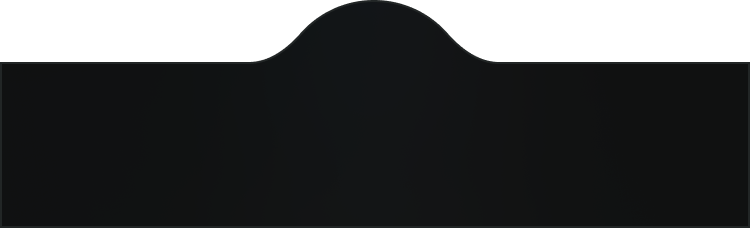
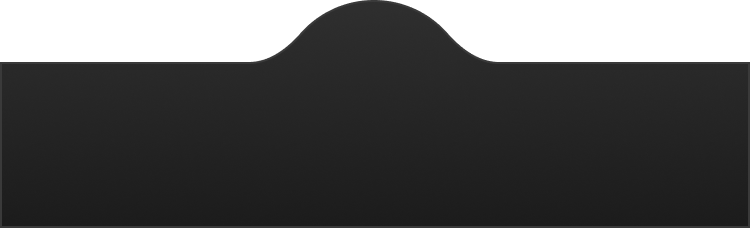
暗夜绿

Changed region(s): [[0.0, 0.0, 0.6133, 0.3684], [0.7053, 0.2763, 1.0, 0.3684]]

diff --git a/src/components/BottomTabBar.vue b/src/components/BottomTabBar.vue
@@ -1,27 +1,75 @@
 <!-- 底部导航 -->
 <template>
-  <div class="max-width bottom_nav">
-    <div v-for="(item, i) in navs" :key="i" class="bottom_nav_item"
-      :class="[checkActive(item) ? 'bottom_nav_active' : '']" @touchstart="handleClick(item, $event)"
-      @click="handleClick(item)">
-      <div class="bottom_nav_icon">
-        <img v-if="!checkActive(item)" :src="getStaticImgUrl(item.icon)" alt="">
-        <img v-if="checkActive(item)" :src="getStaticImgUrl(item.icon2)" alt="">
+  <div class="max-width bottom_nav2"
+    :style="{ backgroundImage: `url(${getStaticImgUrl('/static/bottombar2/bg.png')})` }">
+    <div class="nav_box">
+      <div class="bottom_nav_item" @touchstart="handleClick(navs[0], $event)" @click="handleClick(navs[0])"
+        :class="[checkActive(navs[0]) ? 'bottom_nav_active' : '']">
+        <div class="bn_con">
+          <div class="bottom_nav_icon">
+            <img v-if="!checkActive(navs[0])" :src="getStaticImgUrl(navs[0].icon)" alt="">
+            <img v-if="checkActive(navs[0])" :src="getStaticImgUrl(navs[0].icon2)" alt="">
+          </div>
+          <div class="bottom_nav_name">
+            {{ navs[0].name }}
+          </div>
+        </div>
       </div>
+      <div class="bottom_nav_item" @touchstart="handleClick(navs[1], $event)" @click="handleClick(navs[1])"
+        style="align-items: flex-end;" :class="[checkActive(navs[1]) ? 'bottom_nav_active' : '']">
+        <div class="bn_con">
+          <div class="bottom_nav_icon">
+            <img v-if="!checkActive(navs[1])" :src="getStaticImgUrl(navs[1].icon)" alt="">
+            <img v-if="checkActive(navs[1])" :src="getStaticImgUrl(navs[1].icon2)" alt="">
+          </div>
+          <div class="bottom_nav_name">
+            {{ navs[1].name }}
+          </div>
 
-      <div class="bottom_nav_name">
-        {{ item.name }}
-      </div>
-
-      <!-- c2c角标 -->
-      <div v-if="item.route == 'market' && store.state.c2cUnreadTotal > 0" class="bg-unread-msg bg-unread-msg-text-color">
-        {{ store.state.c2cUnreadTotal }}
-      </div>
-      <!-- 角标 -->
-      <div v-if="item.route == 'user' && storeChat.state.messageNum > 0" class="bg-unread-msg bg-unread-msg-text-color">
-        {{ storeChat.state.messageNum }}
+          <div v-if="store.state.c2cUnreadTotal > 0" class="nav_num">
+            {{ store.state.c2cUnreadTotal }}
+          </div>
+        </div>
       </div>
     </div>
+    <div class="nav_curr">
+      <div class="curr" @touchstart="handleClick(navs[2], $event)" @click="handleClick(navs[2])">
+        <div class="curr_icon">
+          <img :src="getStaticImgUrl('/static/bottombar2/curr.svg')" alt="">
+        </div>
+      </div>
+    </div>
+    <div class="nav_box">
+      <div class="bottom_nav_item" @touchstart="handleClick(navs[3], $event)" @click="handleClick(navs[3])"
+        style="align-items: flex-start;" :class="[checkActive(navs[3]) ? 'bottom_nav_active' : '']">
+        <div class="bn_con">
+          <div class="bottom_nav_icon">
+            <img v-if="!checkActive(navs[3])" :src="getStaticImgUrl(navs[3].icon)" alt="">
+            <img v-if="checkActive(navs[3])" :src="getStaticImgUrl(navs[3].icon2)" alt="">
+          </div>
+          <div class="bottom_nav_name">
+            {{ navs[3].name }}
+          </div>
+        </div>
+      </div>
+      <div class="bottom_nav_item" @touchstart="handleClick(navs[4], $event)" @click="handleClick(navs[4])"
+        :class="[checkActive(navs[4]) ? 'bottom_nav_active' : '']">
+        <div class="bn_con">
+          <div class="bottom_nav_icon">
+            <img v-if="!checkActive(navs[4])" :src="getStaticImgUrl(navs[4].icon)" alt="">
+            <img v-if="checkActive(navs[4])" :src="getStaticImgUrl(navs[4].icon2)" alt="">
+          </div>
+          <div class="bottom_nav_name">
+            {{ navs[4].name }}
+          </div>
+
+          <div v-if="storeChat.state.messageNum > 0" class="nav_num">
+            {{ storeChat.state.messageNum }}
+          </div>
+        </div>
+      </div>
+    </div>
+
   </div>
 </template>
 
@@ -119,60 +167,102 @@ const checkActive = (item) => {
 </script>
 
 <style scoped lang="less">
-.bottom_nav {
-  border-top: 1px solid var(--ex-border-color);
-  background-color: var(--ex-bg-color);
+.bottom_nav2 {
+  background-size: 100% 100%;
   display: flex;
   position: fixed;
   overflow: hidden;
   bottom: 0;
   left: 0;
   width: 100%;
-  height: 1.4rem;
+  height: 2rem;
   left: 50%;
   transform: translateX(-50%);
   z-index: 999;
 
-  .bottom_nav_item {
-    flex: 1;
+  .nav_curr {
+    width: 2.4rem;
     height: 100%;
     display: flex;
     flex-direction: column;
     align-items: center;
-    justify-content: center;
-    color: var(--ex-text-color2);
-    position: relative;
+    justify-content: flex-start;
+    padding-top: 0.16rem;
 
-    .bottom_nav_name {
-      font-size: 0.24rem;
-      line-height: 0.32rem;
-      margin-top: 0.1rem;
-    }
-
-    .bottom_nav_icon {
-      width: 0.48rem;
-      height: 0.48rem;
-      font-size: 0.48rem;
-      object-fit: contain;
-    }
-
-    .nav_num {
-      width: 0.32rem;
-      height: 0.32rem;
+    .curr {
+      width: 1.2rem;
+      height: 1.2rem;
+      border-radius: 50%;
+      background-size: 100% 100%;
       display: flex;
       align-items: center;
       justify-content: center;
-      font-size: 0.2rem;
-      font-weight: 400;
       border-radius: 50%;
-      position: absolute;
-      top: 0.26rem;
-      right: 0.3rem;
+      background-color: var(--ex-text-color3);
+
+      .curr_icon {
+        width: 0.64rem;
+        height: 0.64rem
+      }
     }
   }
 
-  .bottom_nav_active {
-    color: var(--ex-primary-color);
+  .nav_box {
+    flex: 1;
+    display: flex;
+    align-items: stretch;
+    justify-content: center;
+    padding-top: 0.68rem;
+
+    .bottom_nav_item {
+      flex: 1;
+      justify-content: space-between;
+      width: 1rem;
+      display: flex;
+      flex-direction: column;
+      align-items: center;
+      justify-content: flex-start;
+
+      .bn_con {
+        display: flex;
+        flex-direction: column;
+        align-items: center;
+        justify-content: center;
+        color: var(--ex-text-color3);
+        font-size: 0.24rem;
+        position: relative;
+
+        .bottom_nav_icon {
+          width: 0.56rem;
+          height: 0.56rem;
+          margin-bottom: 0.08rem;
+        }
+
+        .nav_num {
+          width: 0.32rem;
+          height: 0.32rem;
+          display: flex;
+          align-items: center;
+          justify-content: center;
+          background-color: #ff3b30;
+          font-size: 0.2rem;
+          color: #fff;
+          font-weight: 400;
+          border-radius: 50%;
+          position: absolute;
+          top: 0.26rem;
+          right: 0.3rem;
+        }
+
+      }
+    }
+
+    .bottom_nav_active {
+      .bn_con {
+        color: var(--ex-primary-color);
+      }
+
+    }
   }
 }
 </style>
